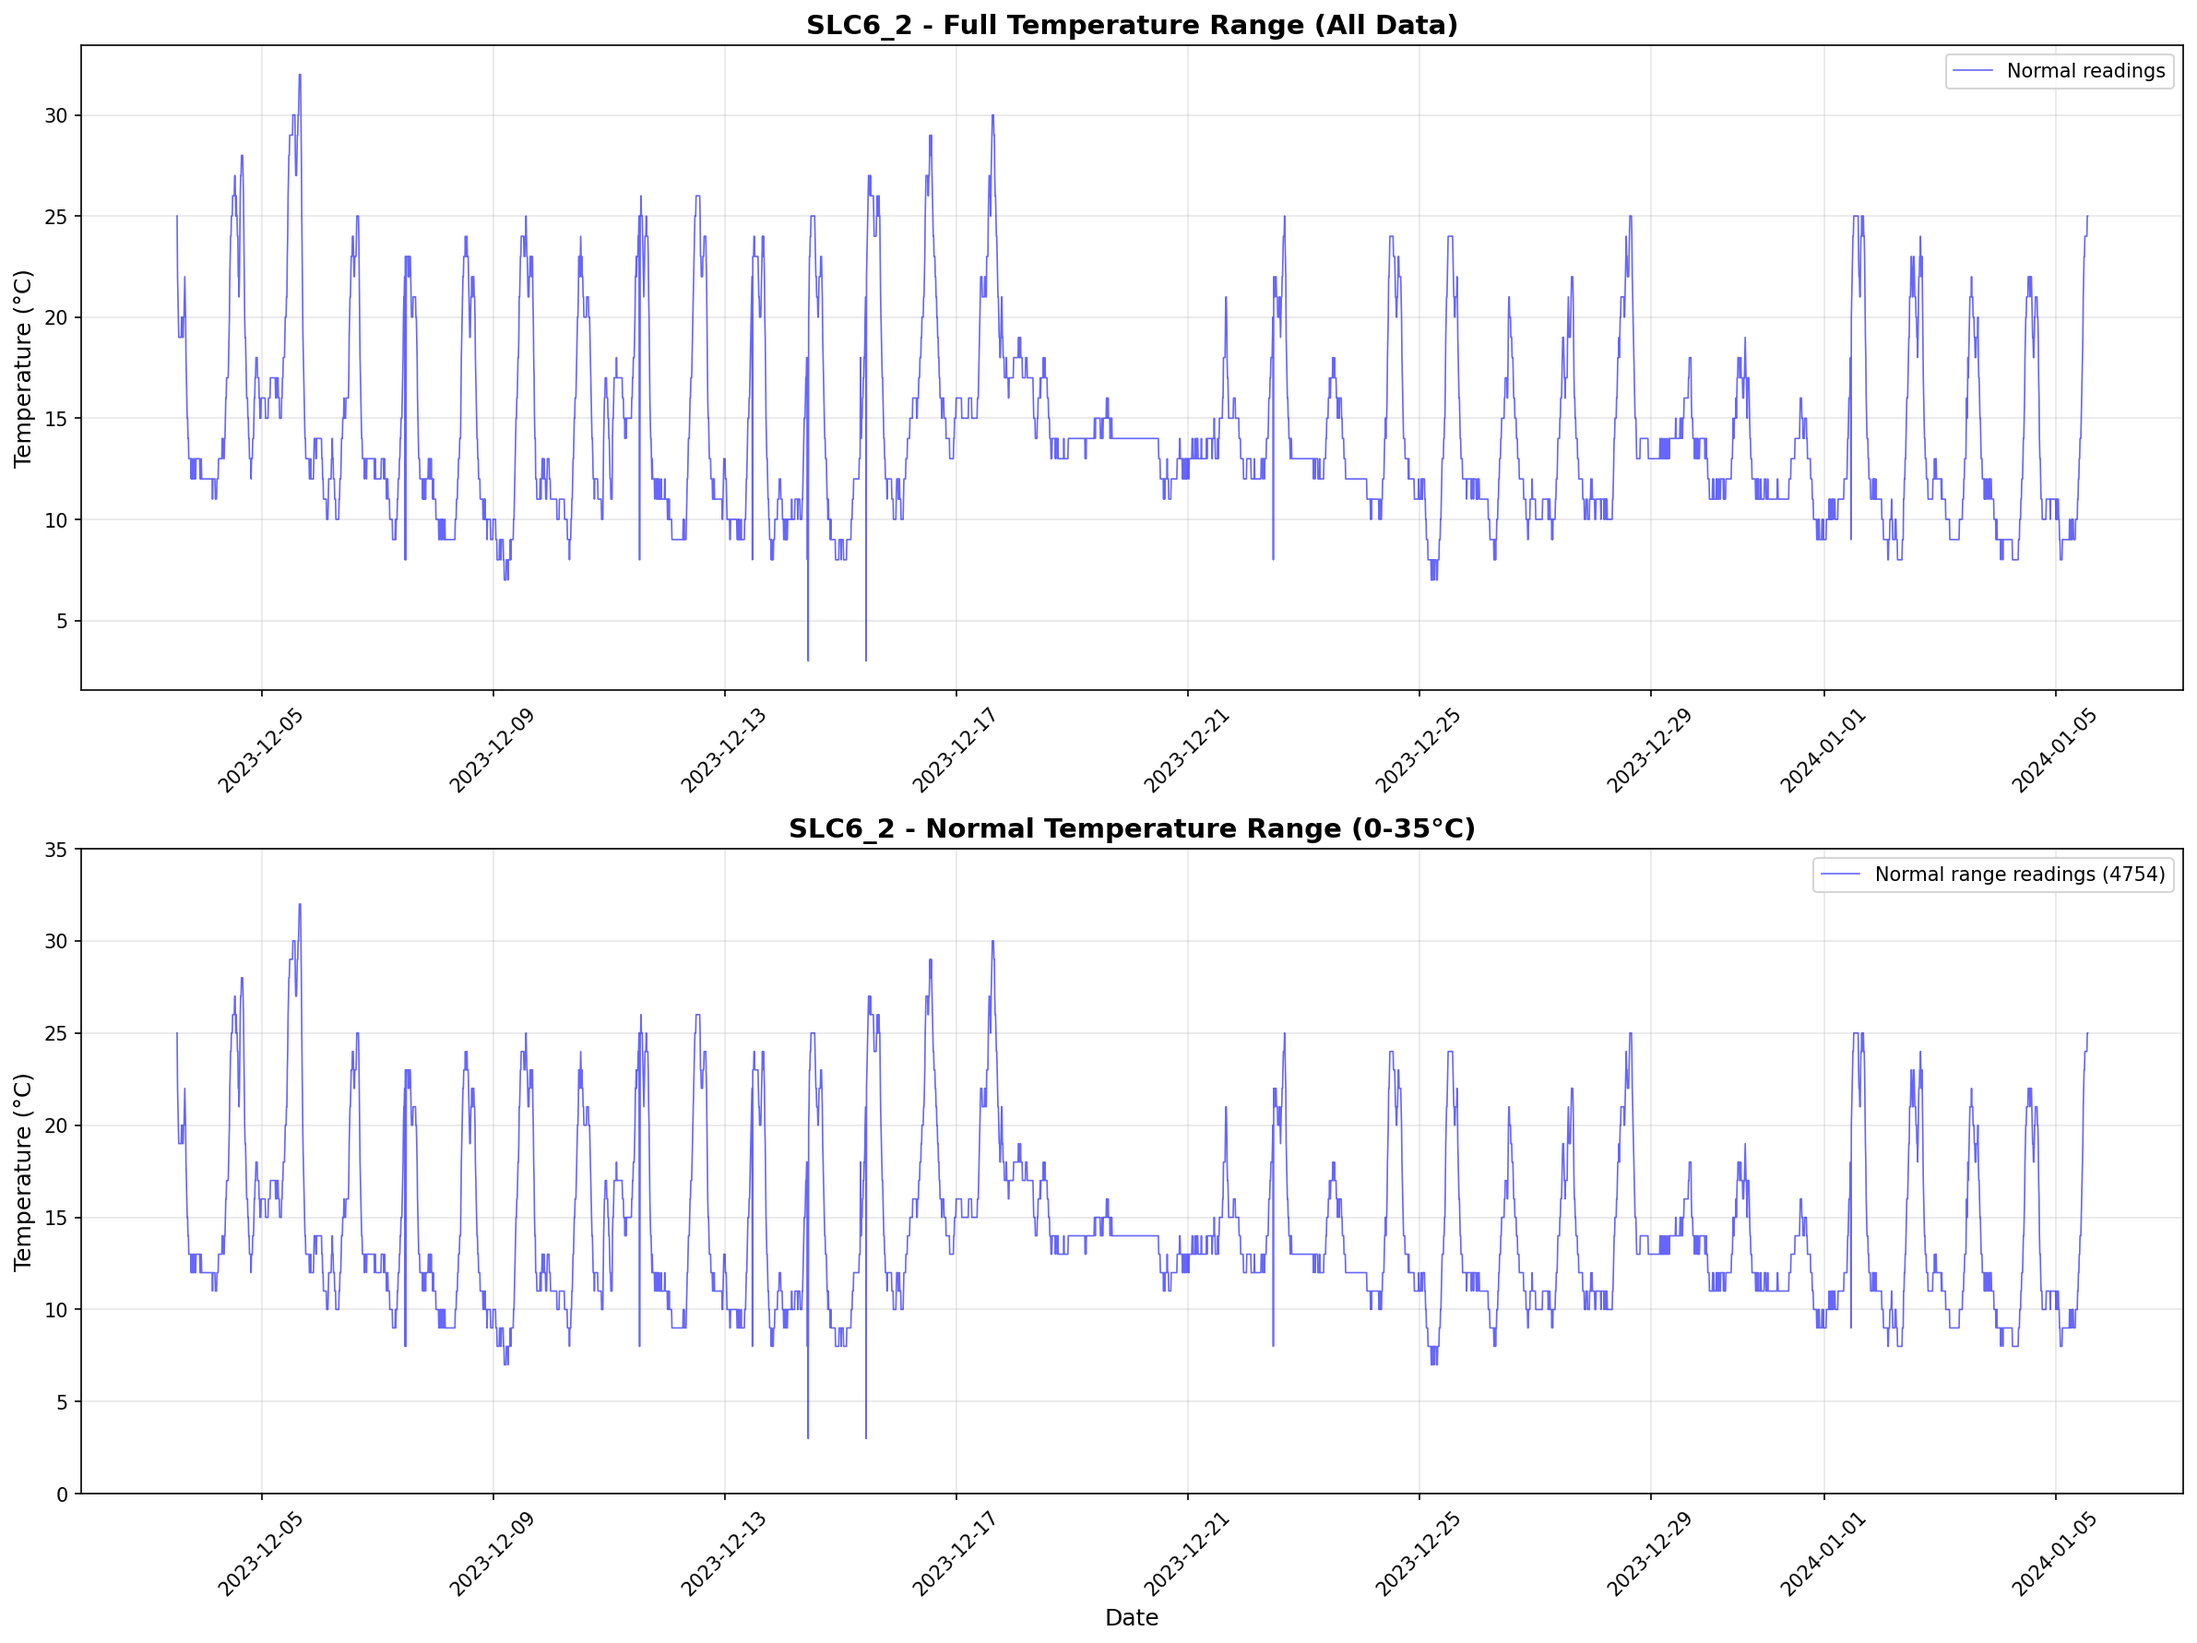
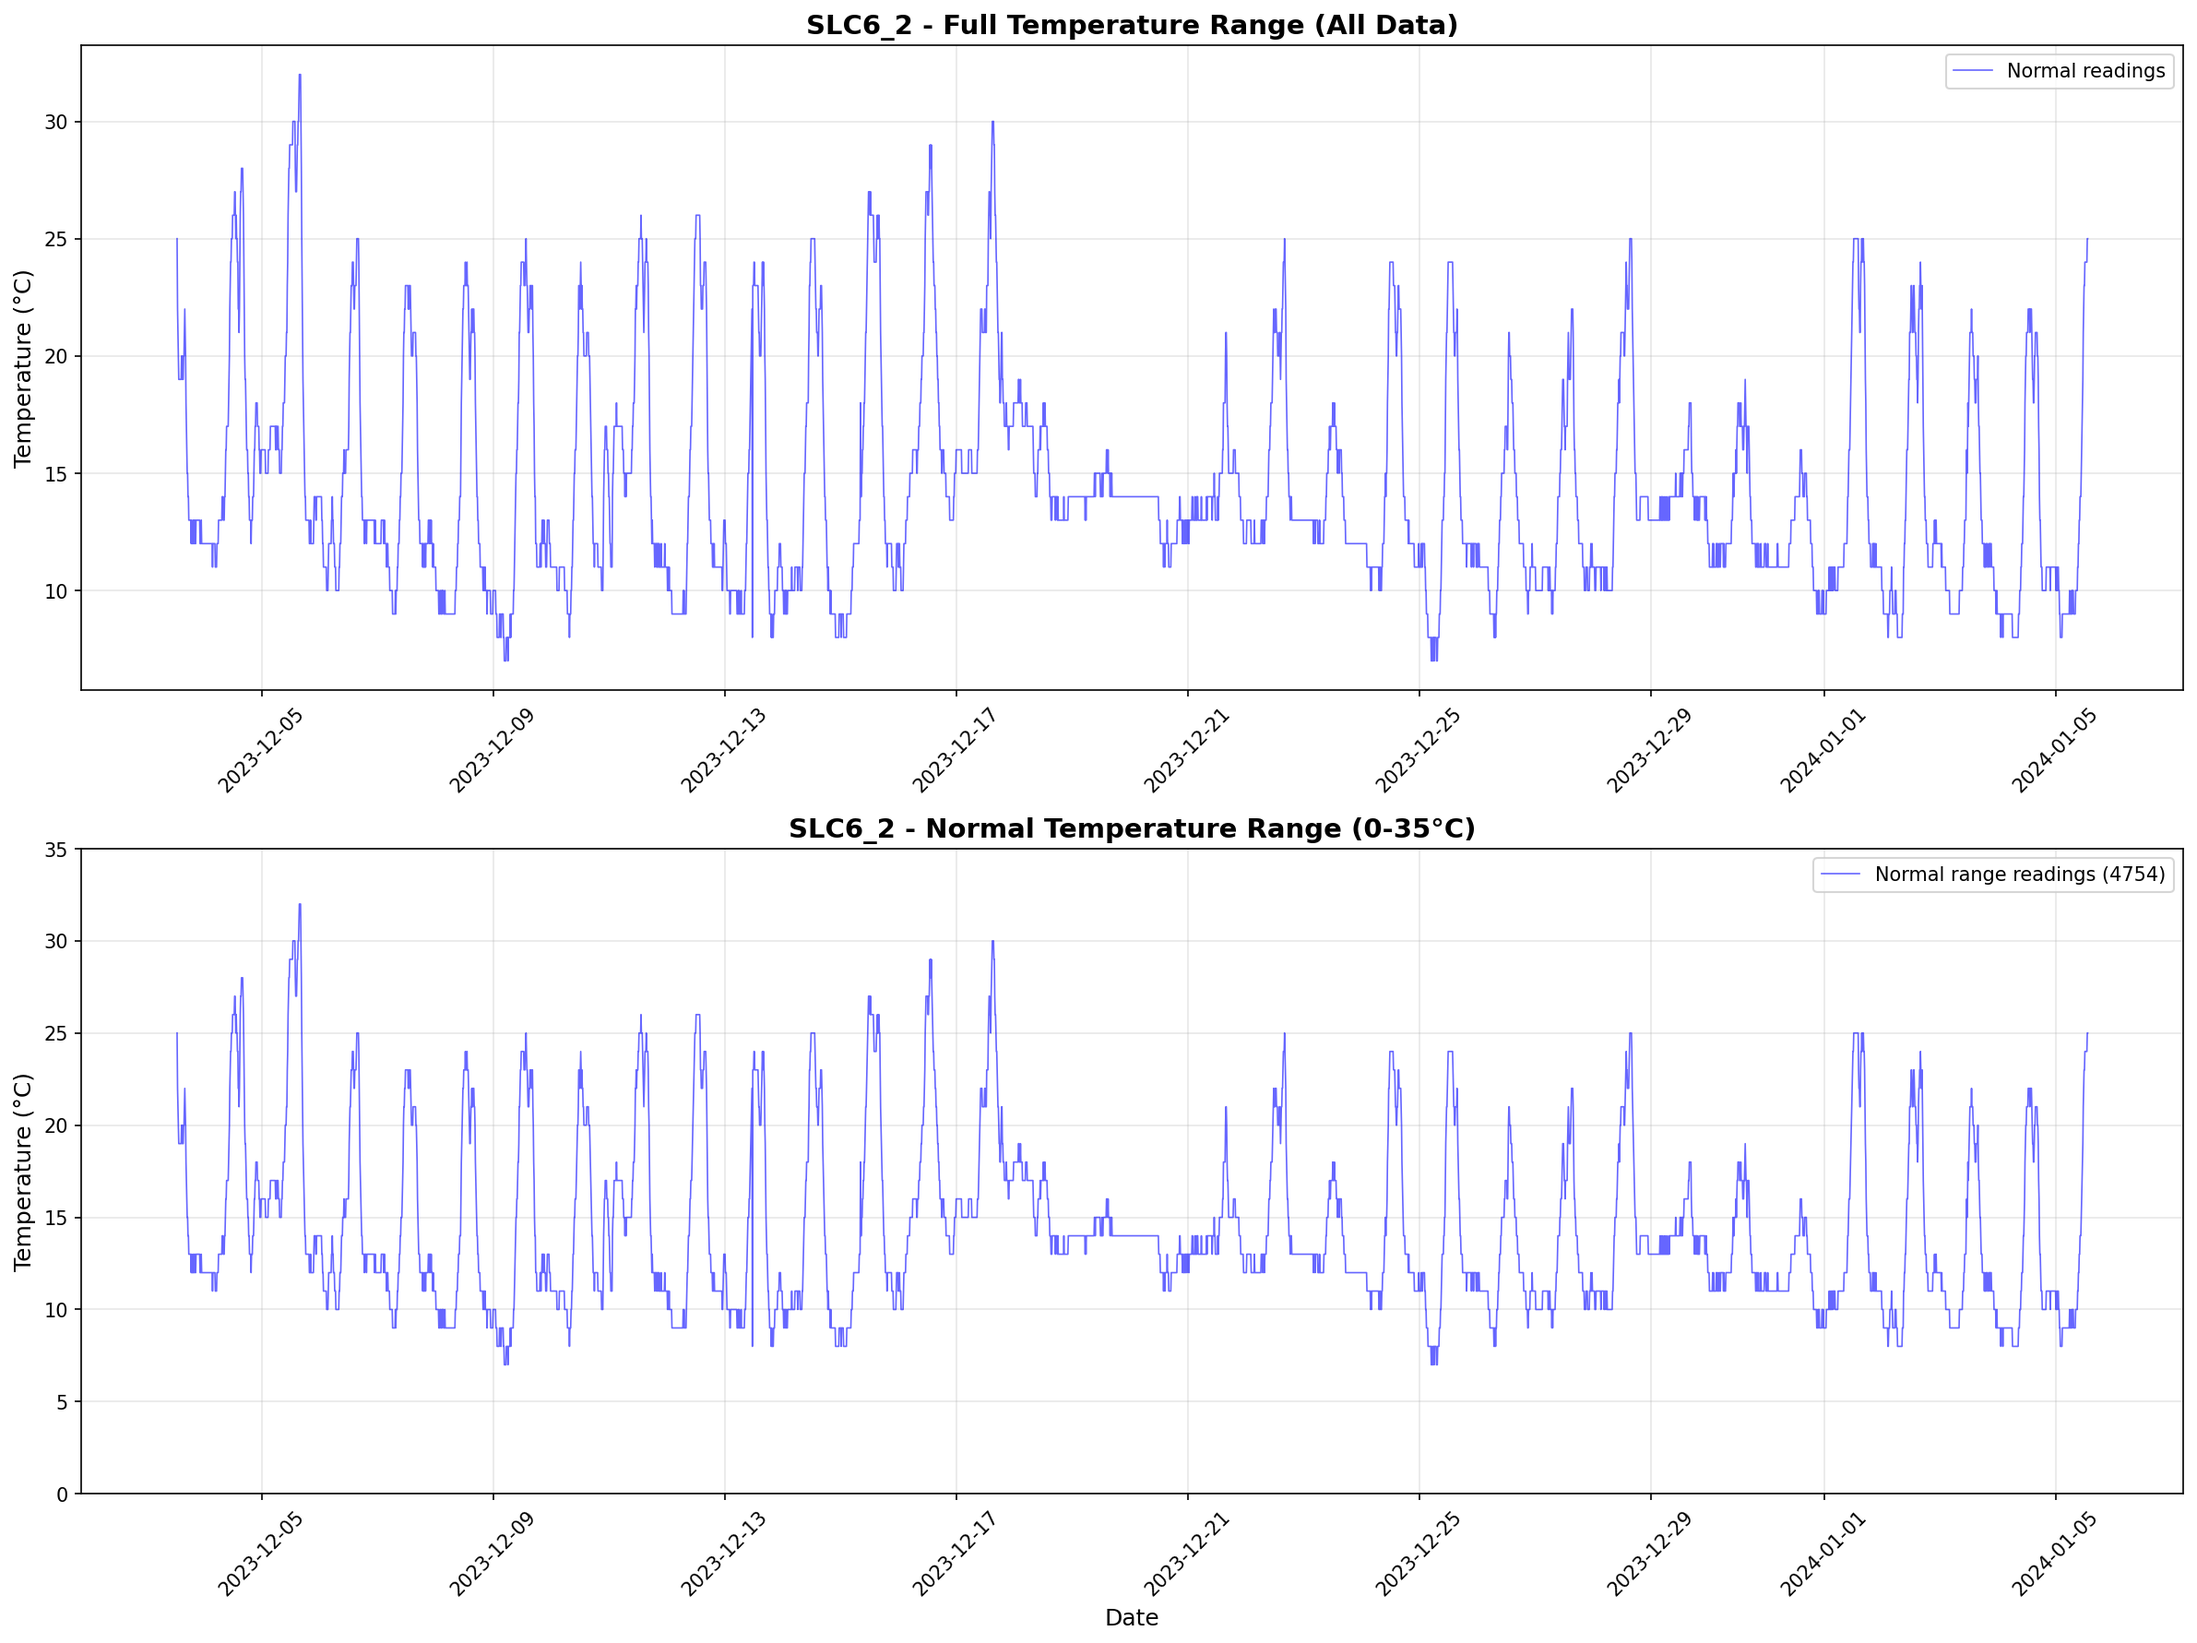
Check new corrections. Only SC2 left.

Changed region(s): [[0.0621, 0.1235, 0.9631, 0.4015], [0.0932, 0.1235, 0.1243, 0.1853], [0.0621, 0.1853, 0.0932, 0.2162]]

diff --git a/python-tools/extract-temp/data_exploration.py b/python-tools/extract-temp/data_exploration.py
@@ -276,7 +276,8 @@ def main():
     original_csv = 'temperature_data.csv'
     # Add more files as needed
     correction_csvs = ['missing_temperature_data.csv',
-                       'manual_extreme_temperature_entries.csv']
+                       'manual_extreme_temperature_entries.csv',
+                       'manual_temperature_entries_data.csv']
 
     # Load and merge data
     df = load_and_merge_data(original_csv, correction_csvs)
